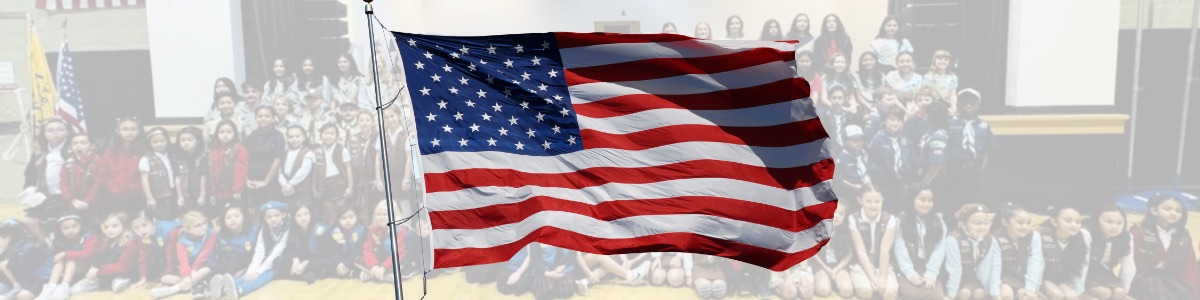
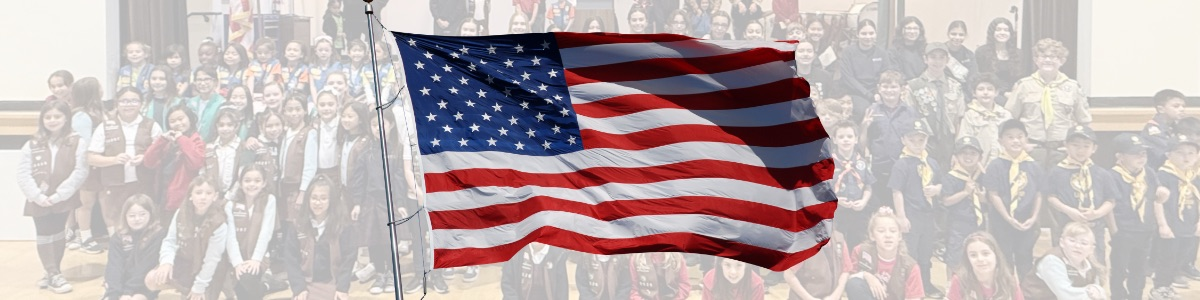
Veterans Day Photo

diff --git a/_plugins/jekyll_format_meta.rb b/_plugins/jekyll_format_meta.rb
@@ -30,6 +30,7 @@ module Jekyll
         deadline: "🏁 Deadline",
         signup: "📋 Signup",
         more_info: "🌐 Link",
+        photo_download: "📸",
       }[type]
       data = if type == :signup
         [data].flatten.map do |l|
@@ -47,6 +48,8 @@ module Jekyll
         link(data["name"], "mailto:#{data["email"]}")
       elsif type == :more_info
         link("More Info", data)
+      elsif type == :photo_download
+        link("Download Photo", data)
       else
         data
       end

diff --git a/_posts/2024-11-08-veterans-day-2024.md b/_posts/2024-11-08-veterans-day-2024.md
@@ -1,0 +1,13 @@
+---
+layout: post
+title:  "Veterans Day Assembly Photo"
+date:   2024-11-08
+featured_image: veterans.jpg
+tags: [Veterans Day]
+meta:
+  photo_download: /images/events/pack-229-veterans-day-2024.jpg
+---
+
+We want to thank all our Scouts and the Veterans who took the time to join us today for the Veterans Day Assembly. We are proud to highlight your service to our country.
+
+{% include image_full.html imageurl="/images/events/pack-229-veterans-day-2024.jpg" title="Veterans Day Assembly 2024" caption="Veterans Day Assembly 2024" %}

diff --git a/_posts/2024-11-02-veterans-day-assembly.md b/_posts/2024-11-02-veterans-day-assembly.md
@@ -3,7 +3,7 @@ layout: post
 title:  "Veterans Day Assembly"
 date:   2024-11-02
 featured_image: veterans.jpg
-tags: [Veterans Day, Upcoming]
+tags: [Veterans Day]
 meta:
   date: 2024-11-08
   time: 7:30 AM
